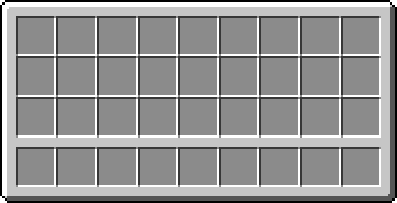
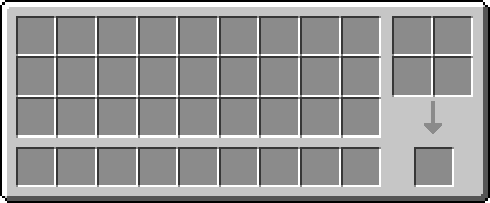
Full inventory mouse steering
Added right click actions in inventory
Added mouse wheel event to itembar

diff --git a/Pycraft.py b/Pycraft.py
@@ -32,13 +32,14 @@ locker = threading.Lock()
 ################### DEVELOPER MODE #####################
 iDeveloper = 0
 ########################################################
-#tMoveInterval # Timer ruchu
 tMouseInterval = None # Timer kopania
 io1 = 6
 io2 = -io1 # Skok offsetu
 b_Map = 0 # Mapa (ziemia/jaskinia
 aTrees = [] # Tablica drzew (mechanizm rozrostu)
 itemPicked = [0, 0]
+itemCrafted = [0, 0]
+itemCrafting2 = [[[0 for e in range(2)] for x in range(2)] for y in range(2)]
 ################### STRUCTY
 oDig = {'Dig' : -1, 'X' : -1, 'Y' : -1}
 ItemBar = []
@@ -132,14 +133,19 @@ def IDToTexture(iID, iX, iY, iW = 48, iH = 48, bEQ = 0, buff = window): #Zamieni
 	buff.blit(pygame.transform.scale(blocks.getTexture(iID), (iW, iH)), (iX, iY))
 
 def DrawInventory():#Funkcja rysowania ekwipunku
-	xOffset = math.floor((width - 397) / 2)
+	xOffset = math.floor((width - 490) / 2)
 	yOffset = math.floor((height - 203) / 2)
 	window.blit(txt_inventory, (xOffset, yOffset))
 	for iX in range(9):
 		for iY in range(4):
-			if ItemBar[iX][iY][0]:
+			if ItemBar[iX][iY][1]:
 				IDToTexture(ItemBar[iX][iY][0], 18 + (iX * 40 + iX) + xOffset, 18 + (iY * 40 + iY) + yOffset + (10 if iY == 3 else 0), 32, 32, 1)
 				DrawString(ItemBar[iX][iY][1], 18 + (iX * 40 + iX) + xOffset, 18 + (iY * 40 + iY) + yOffset + 24 + (10 if iY == 3 else 0), 12)
+	for iY in range(2):
+		for iX in range(2):
+			if ItemBar[2 * iY + iX][4][1]:
+				IDToTexture(ItemBar[2 * iY + iX][4][0], 396 + (iX * 40 + iX) + xOffset, 18 + (iY * 40 + iY) + yOffset, 32, 32, 1)
+				DrawString(ItemBar[2 * iY + iX][4][1], 396 + (iX * 40 + iX) + xOffset, 18 + (iY * 40 + iY) + yOffset + 24, 12)
 	if itemPicked[0]:
 		tMouse = _Mouse()
 		IDToTexture(itemPicked[0], tMouse[0] - 16, tMouse[1] - 16, 32, 32, 1)
@@ -255,7 +261,7 @@ def _Mouse():
 
 def MouseToInv():
 	tMouse = _Mouse()
-	xOffset = math.floor((width - 397) / 2)
+	xOffset = math.floor((width - 490) / 2)
 	yOffset = math.floor((height - 203) / 2)
 	for iX in range(9):
 		for iY in range(4):
@@ -263,18 +269,24 @@ def MouseToInv():
 			y = 18 + (iY * 40 + iY) + yOffset + (10 if iY == 3 else 0)
 			if tMouse[0] in range(x, x + 32) and tMouse[1] in range(y, y + 32):
 				return (iX, iY)
+	for iY in range(2):
+		for iX in range(2):
+			x = 394 + (iX * 40 + iX) + xOffset
+			y = 18 + (iY * 40 + iY) + yOffset
+			if tMouse[0] in range(x, x+ 32) and tMouse[1] in range(y + 32):
+				return (2 * iY + iX, 4)
 	return (-1, -1)
 
 def InventoryControl(iButton):
 	global itemPicked
 	tMouse = MouseToInv()
-	if iButton == 1:
-		if not itemPicked[0] and tMouse[0] != -1 and tMouse[1] != -1:
-			itemPicked[0] = ItemBar[tMouse[0]][tMouse[1]][0]
-			itemPicked[1] = ItemBar[tMouse[0]][tMouse[1]][1]
-			ItemBar[tMouse[0]][tMouse[1]][0], ItemBar[tMouse[0]][tMouse[1]][1] = 0, 0
-		else:
-			if tMouse[0] != -1 and tMouse[1] != -1:
+	if tMouse[0] != -1 and tMouse[1] != -1:
+		if iButton == 1:
+			if not itemPicked[0]:
+				itemPicked[0] = ItemBar[tMouse[0]][tMouse[1]][0]
+				itemPicked[1] = ItemBar[tMouse[0]][tMouse[1]][1]
+				ItemBar[tMouse[0]][tMouse[1]][0], ItemBar[tMouse[0]][tMouse[1]][1] = 0, 0
+			else:
 				if not ItemBar[tMouse[0]][tMouse[1]][0]:
 					ItemBar[tMouse[0]][tMouse[1]][0] = itemPicked[0]
 					ItemBar[tMouse[0]][tMouse[1]][1] = itemPicked[1]
@@ -287,13 +299,22 @@ def InventoryControl(iButton):
 					ItemBar[tMouse[0]][tMouse[1]][0] = itemPicked[0]
 					ItemBar[tMouse[0]][tMouse[1]][1] = itemPicked[1]
 					itemPicked = [swap[0], swap[1]]
-	elif iButton == 3:
-		if (not itemPicked[0] or ItemBar[tMouse[0]][tMouse[1]][0] == itemPicked[0]) and tMouse[0] != -1 and tMouse[1] != -1:
-			itemPicked[0] = ItemBar[tMouse[0]][tMouse[1]][0]
-			itemPicked[1] += math.ceil(ItemBar[tMouse[0]][tMouse[1]][1] / 2)
-			ItemBar[tMouse[0]][tMouse[1]][1] -= math.ceil(ItemBar[tMouse[0]][tMouse[1]][1] / 2)
+		elif iButton == 3:
+			if not itemPicked[0]:
+				itemPicked[0] = ItemBar[tMouse[0]][tMouse[1]][0]
+				itemPicked[1] = math.ceil(ItemBar[tMouse[0]][tMouse[1]][1] / 2)
+				ItemBar[tMouse[0]][tMouse[1]][1] -= math.ceil(ItemBar[tMouse[0]][tMouse[1]][1] / 2)
+			else:
+				if not ItemBar[tMouse[0]][tMouse[1]][0]:
+					ItemBar[tMouse[0]][tMouse[1]][0] == itemPicked[0]
+				if ItemBar[tMouse[0]][tMouse[1]][0] == itemPicked[0]:
+					ItemBar[tMouse[0]][tMouse[1]][1] += 1
+					itemPicked[1] -= 1
+					
 	if ItemBar[tMouse[0]][tMouse[1]][1] == 0:
 		ItemBar[tMouse[0]][tMouse[1]][0] = 0
+	if not itemPicked[1]:
+		itemPicked[0] = 0
 		
 
 def MouseToBlock():
@@ -567,7 +588,7 @@ def create_world():
 	if not name:
 		name = 'world' + str(random.randint(0, 9999))
 	generate_map(size)
-	world = {'map' : aMap, 'mapBack' : aMapBack, 'eq' : [[[random.randint(0, 13) for e in range(2)] for x in range(4)] for y in range(9)], 'player' : {'X' : random.randint(1, size - 1), 'Y' : random.randint(1, size - 1), 'Direction' : 2}}
+	world = {'map' : aMap, 'mapBack' : aMapBack, 'eq' : [[[random.randint(1, 13) for e in range(2)] for x in range(5)] for y in range(9)], 'player' : {'X' : random.randint(1, size - 1), 'Y' : random.randint(1, size - 1), 'Direction' : 2}}
 	if os.path.isfile('./worlds/' + name):
 		count = 1
 		while os.path.isfile('./worlds/' + name + str(count)):
@@ -702,7 +723,12 @@ while True:
 				InventoryControl(event.button)
 			button = 0
 		elif event.type == pygame.MOUSEBUTTONDOWN:
-			button = event.button
+			if (event.button == 4 or event.button == 5) and playing:
+				itemSelector += 1 if event.button == 4 else -1
+				if itemSelector == 9: itemSelector = 0
+				if itemSelector == -1: itemSelector = 9
+			else:
+				button = event.button
 			
 	window.fill((0, 0, 0))
 	
